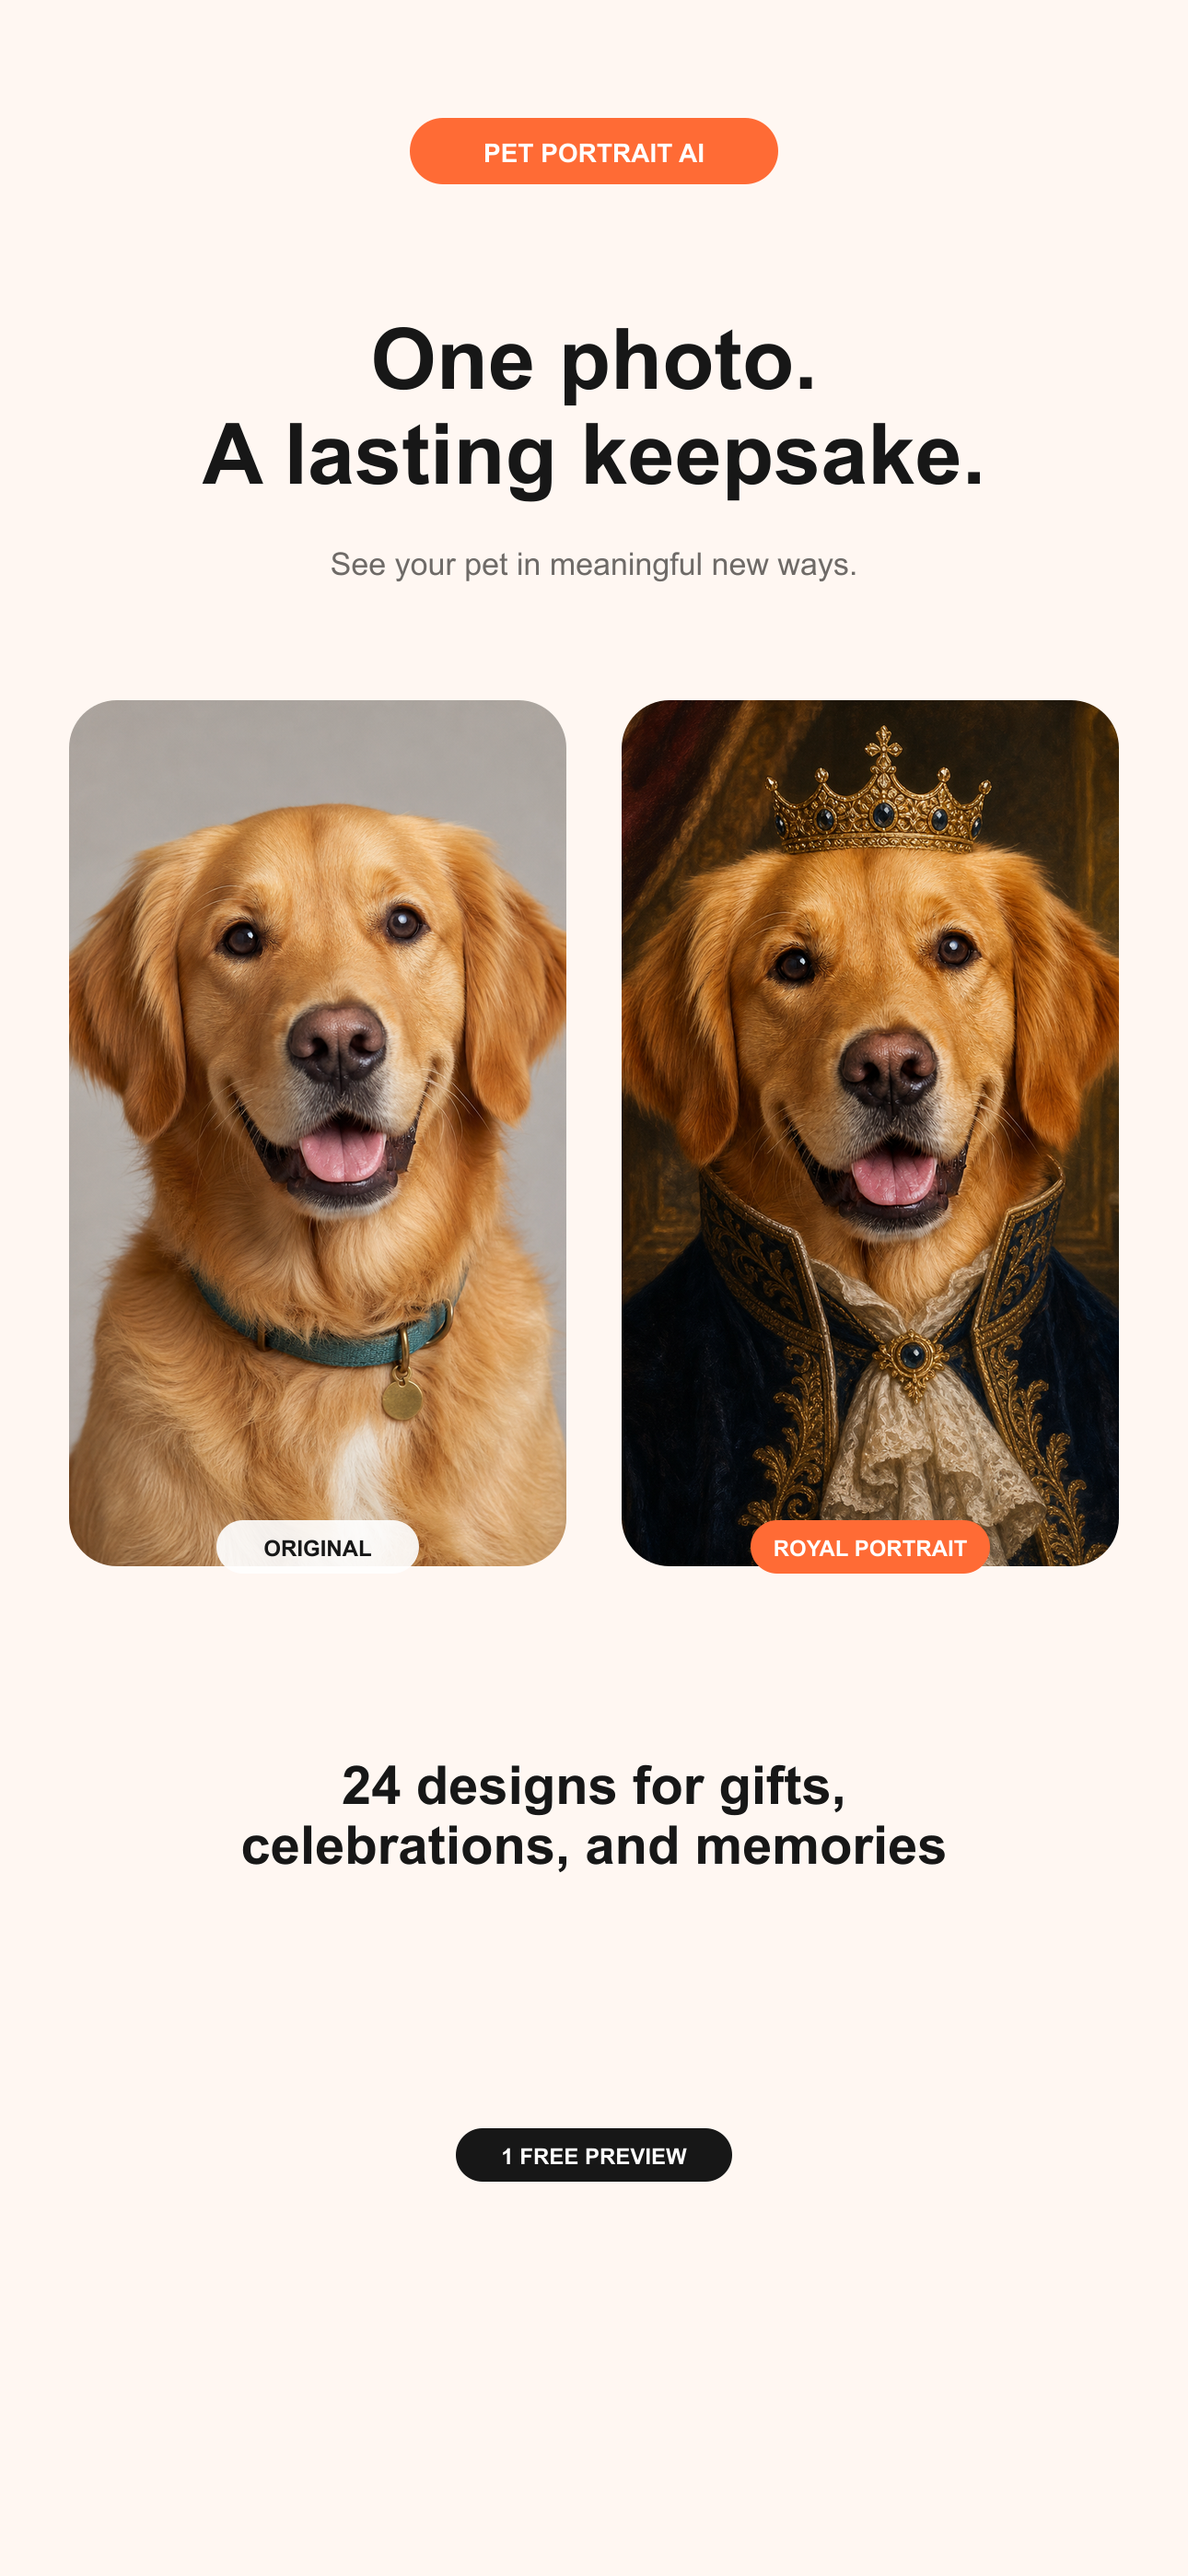
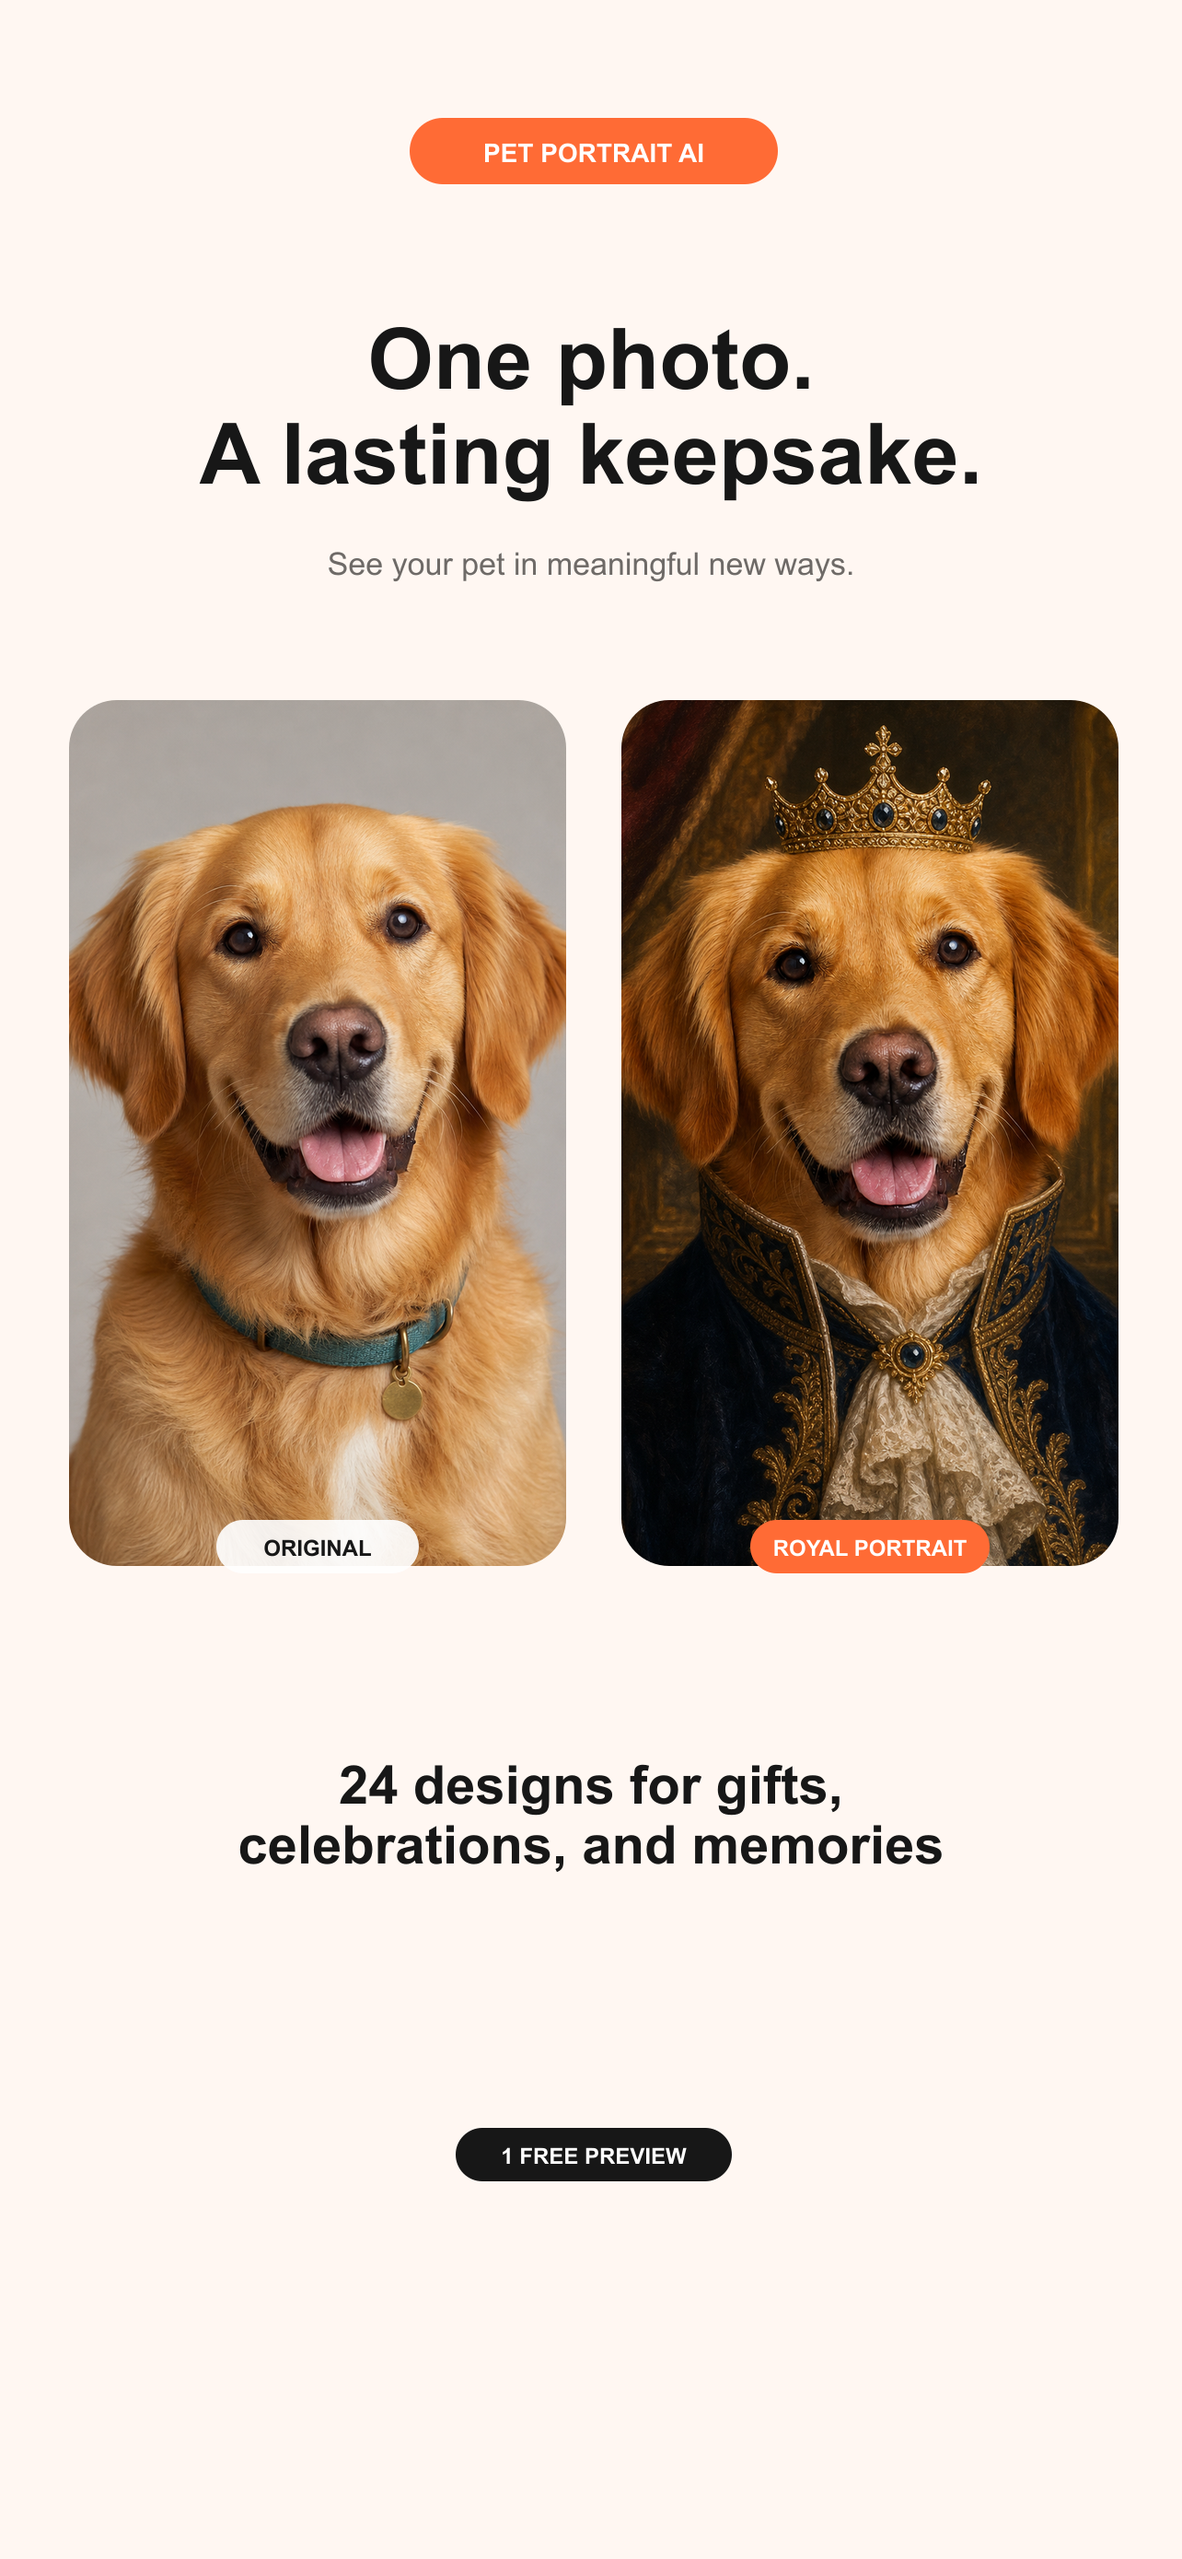
[skip ci] Fix App Store screenshot dimensions

diff --git a/README.md b/README.md
@@ -28,6 +28,6 @@ basic funnel events are stored locally on the device.
 
 ## Store assets
 
-Run `npm run store:assets` to rebuild the five 1290×2796 screenshots,
+Run `npm run store:assets` to rebuild the five 1284×2778 screenshots,
 1080×1920 video slides, and the 1024×500 Google Play feature graphic from the
 approved source portraits in `store-assets/source`.
